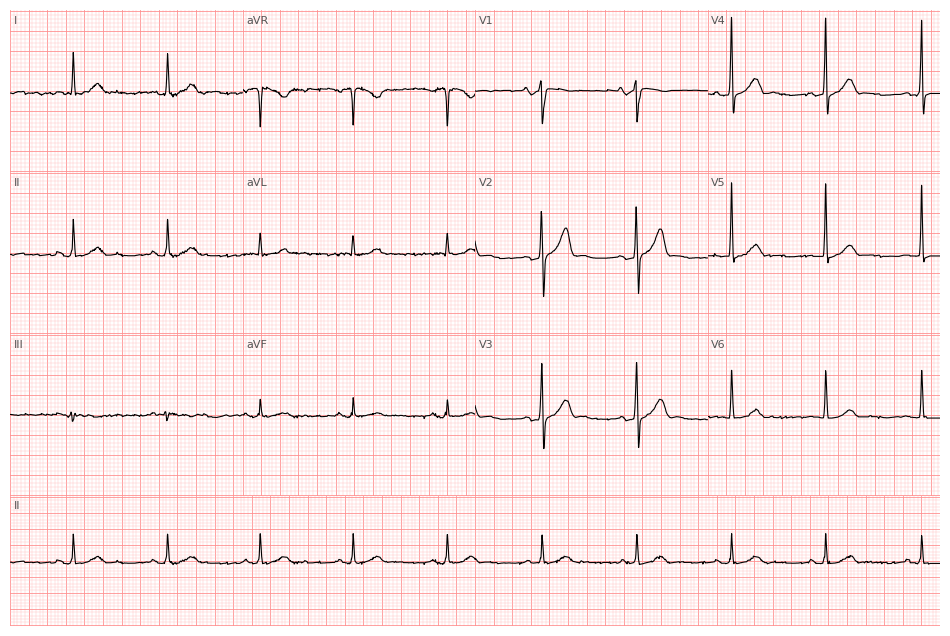
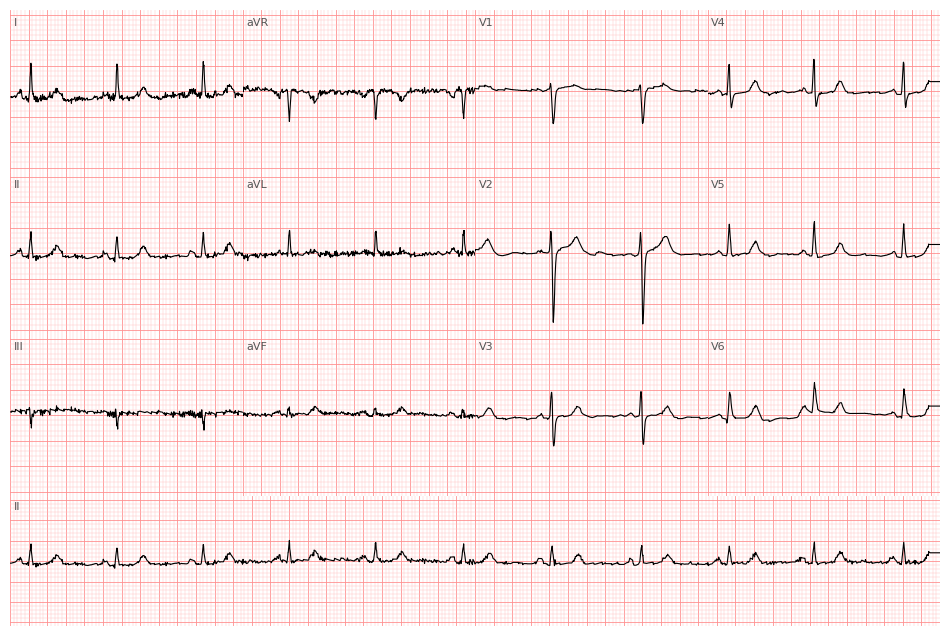
fix(ecg): generate missing sinus-bradycardia and SVT images
Root cause: SBRAD and SVARR/SVTAC codes in PTB-XL always have
likelihood=0, so they were never the primary SCP code for any record.
select_records only matched primary codes, skipping these entirely.

Fix:
- Add fallback in select_records: when no primary match, search for
  records that CONTAIN the wanted code (even with likelihood 0)
- Add PSVT (likelihood=100) to SVT target codes
- Regenerated all 58/58 images (was 52, now includes 3 bradycardia
  + 3 SVT)
- Bump image cache-buster to v3

diff --git a/ecg/exam.html b/ecg/exam.html
@@ -422,7 +422,7 @@
                 clinicalContext.style.display = 'none';
             }
 
-            ecgImage.src = 'images/' + q.image + '?v=2';
+            ecgImage.src = 'images/' + q.image + '?v=3';
             ecgImage.alt = q.image_alt || 'ECG';
 
             currentOptions = buildOptions(q);
@@ -559,7 +559,7 @@
                     card.className = 'error-card';
                     card.innerHTML =
                         '<div class="error-card-header">' +
-                            '<img class="error-card-thumb" src="images/' + err.question.image + '?v=2" alt="ECG" onclick="openLightbox(this.src)">' +
+                            '<img class="error-card-thumb" src="images/' + err.question.image + '?v=3" alt="ECG" onclick="openLightbox(this.src)">' +
                             '<div class="error-card-info">' +
                                 '<div class="error-card-q">ECG #' + (i + 1) + '</div>' +
                                 '<div class="error-answer user-ans"><span>Votre r\u00e9ponse :</span> ' + escapeHtml(err.userAnswer) + '</div>' +

diff --git a/scripts/generate-ecg-images.py b/scripts/generate-ecg-images.py
@@ -98,7 +98,7 @@ TARGETS = [
     },
     {
         "slug": "svt",
-        "scp_codes": ["SVARR", "SVTAC"],
+        "scp_codes": ["SVARR", "SVTAC", "PSVT"],
         "count": 3,
         "category": "arythmies_sv",
         "pathology_fr": "Tachycardie supraventriculaire",
@@ -289,14 +289,26 @@ def select_records(df: pd.DataFrame) -> list[dict]:
         # Candidates: primary SCP code is one of the wanted codes
         candidates = df[df["_primary_code"].isin(codes_wanted)].copy()
 
-        # Prefer high likelihood
-        candidates = candidates.sort_values("_primary_likelihood", ascending=False)
+        # Fallback: if no primary matches, include records that CONTAIN
+        # any wanted code (even with likelihood 0, e.g. SBRAD, SVARR)
+        if candidates.empty:
+            def _has_code(scp_dict):
+                return bool(codes_wanted & set(scp_dict.keys()))
+            candidates = df[df["_scp_dict"].apply(_has_code)].copy()
+
+        # Sort: prefer high likelihood of the target code, then primary
+        def _target_likelihood(scp_dict):
+            return max((scp_dict.get(c, 0) for c in codes_wanted), default=0)
+        candidates["_target_lh"] = candidates["_scp_dict"].apply(_target_likelihood)
+        candidates = candidates.sort_values(
+            ["_target_lh", "_primary_likelihood"], ascending=[False, False]
+        )
 
         # Prefer validated_by_human if column exists
         if "validated_by_human" in candidates.columns:
             candidates = candidates.sort_values(
-                ["validated_by_human", "_primary_likelihood"],
-                ascending=[False, False],
+                ["validated_by_human", "_target_lh", "_primary_likelihood"],
+                ascending=[False, False, False],
             )
 
         picked = 0
